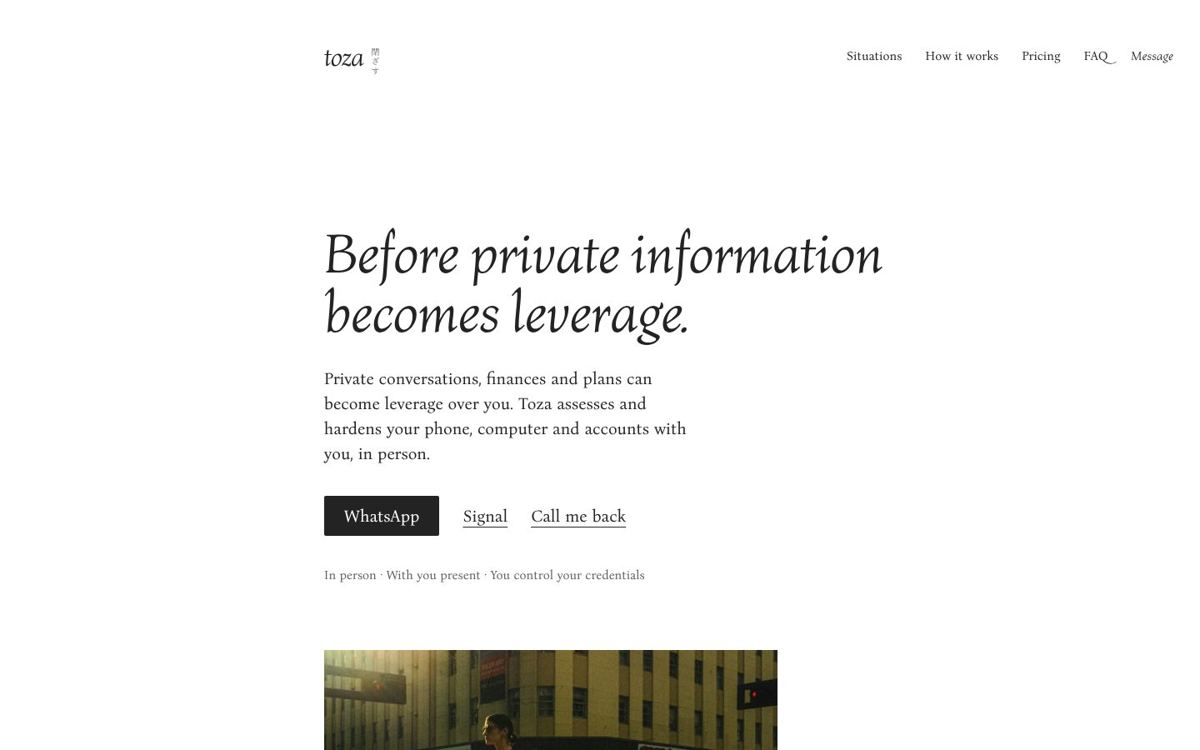
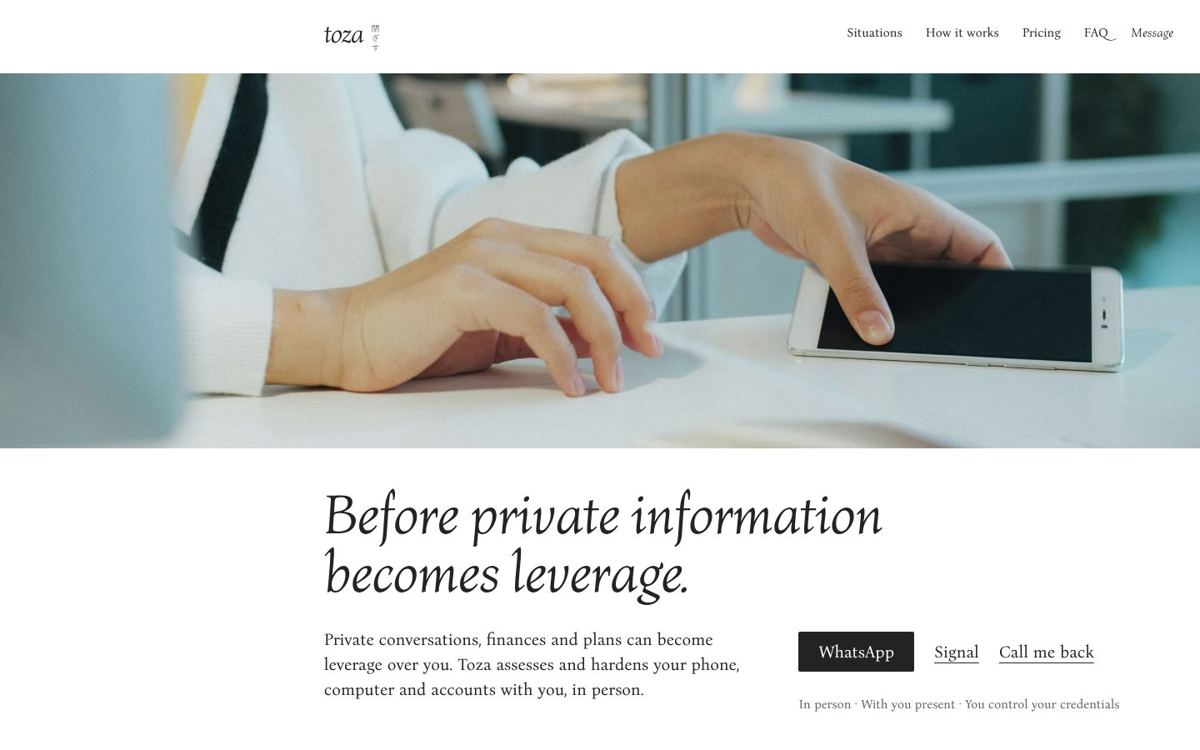
Board 2 v2: full-bleed hero (H2), situations as a horizontal gallery strip; owner photo directions stored with credits
Claude-Session: https://claude.ai/code/session_01GXSN2Gm78K28T2xn8h7HYg

diff --git a/site/b2-quiet/index.html b/site/b2-quiet/index.html
@@ -8,36 +8,31 @@
 <link rel="preload" href="../fonts/bona-nova-latin-400-normal.woff2" as="font" type="font/woff2" crossorigin>
 <link rel="preload" href="../fonts/bona-nova-latin-400-italic.woff2" as="font" type="font/woff2" crossorigin>
 <style>
-/* Board 2 — The quiet instrument. taste-skill direction quiet-instrument (finance, seed 1650518005).
-   Type: Bona Nova (Latin + Hebrew, replaces dealt EB Garamond: Hebrew required, D25). Palette: Greys and mint (dealt). */
+/* Board 2, version 2 — The quiet instrument, with the system broken once on purpose: a full-bleed hero photograph
+   and a full-bleed gallery strip (owner decisions D33, H2, 18 Oct). Wordmark approved (D31). */
 @font-face{font-family:"Bona Nova";src:url(../fonts/bona-nova-latin-400-normal.woff2) format("woff2");font-weight:400;font-style:normal;font-display:swap;unicode-range:U+0000-00FF,U+0131,U+0152-0153,U+02BB-02BC,U+02C6,U+02DA,U+02DC,U+2000-206F,U+20AC,U+2122,U+2212,U+2215}
 @font-face{font-family:"Bona Nova";src:url(../fonts/bona-nova-hebrew-400-normal.woff2) format("woff2");font-weight:400;font-style:normal;font-display:swap;unicode-range:U+0590-05FF,U+200C-2010,U+20AA,U+25CC,U+FB1D-FB4F}
 @font-face{font-family:"Bona Nova";src:url(../fonts/bona-nova-latin-400-italic.woff2) format("woff2");font-weight:400;font-style:italic;font-display:swap;unicode-range:U+0000-00FF,U+2000-206F}
-@font-face{font-family:"Bona Nova";src:url(../fonts/bona-nova-latin-700-normal.woff2) format("woff2");font-weight:700;font-style:normal;font-display:swap;unicode-range:U+0000-00FF,U+2000-206F}
 @font-face{font-family:"Toza Kanji";src:url(../fonts/kanji-serif.woff2) format("woff2");font-display:block}
 
 :root{
-  --bg:#ffffff; --surface:#f3f3f3; --ink:#232323; --muted:#5f5f5f; --accent:#a1ffcb; --accent-ink:#232323;
-  --line: 27vw;                       /* the one alignment the whole page hangs on */
-  --col: 34rem;                       /* 544px reading column */
-  --step-small: 0.9375rem;
-  --step-body: clamp(1.125rem,1.06rem + 0.3vw,1.25rem);
-  --step-lead: clamp(1.375rem,1.2rem + 0.7vw,1.75rem);
-  --step-head: clamp(2.5rem,1.4rem + 3.4vw,4.25rem);
-  --radius: 2px;
-  --ease: cubic-bezier(.2,.7,.2,1);
+  --bg:#ffffff; --surface:#f1f1f0; --ink:#232323; --muted:#5f5f5f; --accent:#a1ffcb; --accent-ink:#232323;
+  --line:27vw; --margin:clamp(1.25rem,2.2vw,2rem);
+  --step-small:.9375rem;
+  --step-body:clamp(1.125rem,1.06rem + .3vw,1.25rem);
+  --step-title:clamp(1.375rem,1.1rem + .9vw,1.875rem);
+  --step-head:clamp(2.5rem,1.4rem + 3.4vw,4.25rem);
+  --radius:2px; --ease:cubic-bezier(.2,.7,.2,1);
 }
 *,*::before,*::after{box-sizing:border-box}
-html{-webkit-text-size-adjust:100%}
-body{margin:0;background:var(--bg);color:var(--ink);font:400 var(--step-body)/1.5 "Bona Nova",Georgia,serif;font-kerning:normal;text-rendering:optimizeLegibility}
+body{margin:0;background:var(--bg);color:var(--ink);font:400 var(--step-body)/1.5 "Bona Nova",Georgia,serif;font-kerning:normal}
 a{color:inherit}
 img{display:block;max-inline-size:100%;block-size:auto}
 :focus-visible{outline:2px solid var(--ink);outline-offset:3px}
-.skip{position:absolute;inset-inline-start:-999px}
-.skip:focus{inset-inline-start:var(--line);inset-block-start:.5rem;background:var(--bg);padding:.5rem}
+.skip{position:absolute;inset-inline-start:-999px}.skip:focus{inset-inline-start:var(--line);inset-block-start:.5rem;background:var(--bg);padding:.5rem}
 
-/* top bar: wordmark on the line, links at the far end */
-.top{position:absolute;inset-inline:0;inset-block-start:0;display:flex;align-items:flex-start;padding-block-start:3.5rem;padding-inline-start:var(--line);padding-inline-end:2rem}
+/* header on white, wordmark on the line */
+.top{display:flex;align-items:flex-start;padding-block:1.75rem 1.5rem;padding-inline:var(--line) var(--margin)}
 .wordmark{display:flex;align-items:flex-start;gap:.55rem;text-decoration:none}
 .wordmark .latin{font-style:italic;font-size:2rem;line-height:.8;letter-spacing:-.045em}
 .wordmark .kanji{font-family:"Toza Kanji",serif;writing-mode:vertical-rl;font-size:.62rem;letter-spacing:.2em;line-height:1;color:var(--muted)}
@@ -46,61 +41,68 @@ img{display:block;max-inline-size:100%;block-size:auto}
 .links a:hover{text-decoration:underline;text-underline-offset:.3em;text-decoration-thickness:1px}
 .links .msg{font-style:italic}
 
-/* hero */
-.hero{min-block-size:100svh;position:relative;overflow:hidden}
-.hero .col{position:absolute;inset-block-start:30svh;inset-inline-start:var(--line);inline-size:min(var(--col),calc(100vw - var(--line) - 2rem))}
-h1{margin:0 0 1.75rem;font-weight:400;font-style:italic;font-size:var(--step-head);line-height:1.04;letter-spacing:-.022em;inline-size:max-content;max-inline-size:calc(100vw - var(--line) - 2rem);text-wrap:balance}
-.lead{margin:0 0 2.25rem;max-inline-size:44ch}
-.actions{display:flex;align-items:center;gap:1.75rem;flex-wrap:wrap}
-.btn{display:inline-flex;align-items:center;min-block-size:3rem;padding-inline:1.5rem;background:var(--ink);color:var(--bg);text-decoration:none;border-radius:var(--radius);font-size:var(--step-body);transition:transform .15s var(--ease),background-color .2s}
-.btn:hover{background:#000}
-.btn:active{transform:translateY(1px) scale(.985)}
-.textlink{font-size:var(--step-body);text-underline-offset:.28em;text-decoration-thickness:1px;padding-block:.7rem;margin-block:-.7rem}
+/* hero: one photograph edge to edge, the words on white beneath it */
+.hero-photo{inline-size:100%;block-size:clamp(18rem,50svh,34rem);object-fit:cover;object-position:60% 55%;background:var(--surface)}
+.hero-text{display:grid;grid-template-columns:var(--line) minmax(0,32rem) minmax(0,1fr);column-gap:0;row-gap:1.75rem;padding-block:clamp(2rem,5svh,3.25rem) 5rem;padding-inline-end:var(--margin)}
+h1{grid-column:2 / 4;margin:0;font-weight:400;font-style:italic;font-size:var(--step-head);line-height:1.04;letter-spacing:-.022em;text-wrap:balance}
+.side{display:contents}
+.lead{grid-column:2;grid-row:2}
+.side .more{grid-column:3;grid-row:2;padding-block-start:.35rem;padding-inline-start:clamp(1.5rem,4vw,4rem)}
+.lead{margin:0}
+.actions{display:flex;align-items:center;gap:1.5rem;flex-wrap:wrap}
+.btn{display:inline-flex;align-items:center;min-block-size:3rem;padding-inline:1.5rem;background:var(--ink);color:var(--bg);text-decoration:none;border-radius:var(--radius);transition:transform .15s var(--ease),background-color .2s}
+.btn:hover{background:#000}.btn:active{transform:translateY(1px) scale(.985)}
+.textlink{text-underline-offset:.28em;text-decoration-thickness:1px;padding-block:.7rem;margin-block:-.7rem}
 .textlink:hover{text-decoration-thickness:2px}
-.promise{margin:2.25rem 0 0;font-size:var(--step-small);color:var(--muted)}
-/* the demonstration that peeks in at the fold: a column-wide photograph of an ordinary afternoon */
-.peek{position:absolute;inset-inline-start:var(--line);inset-block-start:calc(100svh - 7.5rem);inline-size:min(var(--col),calc(100vw - var(--line) - 2rem));aspect-ratio:3/2;object-fit:cover;background:var(--surface)}
+.promise{margin:1.75rem 0 0;font-size:var(--step-small);color:var(--muted)}
 
-/* situations: two-ended rows in the same column */
-.doors{padding-block:9rem 10rem;padding-inline-start:var(--line);padding-inline-end:1.5rem}
-.doors > *{max-inline-size:var(--col)}
-.doors .photo{inline-size:100%;aspect-ratio:3/2;object-fit:cover;margin-block-end:7rem;background:var(--surface)}
-h2{margin:0 0 2rem;font-weight:400;font-size:var(--step-lead);line-height:1.2;letter-spacing:-.01em}
-.rows{list-style:none;margin:0;padding:0}
-.rows li + li{margin-block-start:1.6rem}
-.rows a{display:grid;grid-template-columns:1rem 1fr;column-gap:.75rem;align-items:baseline;text-decoration:none;padding-block:.35rem}
-.rows img{inline-size:1rem;block-size:1rem;border-radius:50%;object-fit:cover;align-self:start;margin-block-start:.32rem}
-.rows .t{font-size:var(--step-body)}
-.rows .l{grid-column:2;font-size:var(--step-body);color:var(--muted);font-style:italic}
-.rows a:hover .t{text-decoration:underline;text-underline-offset:.28em;text-decoration-thickness:1px}
-/* the one mint field */
-.aside{margin:4.5rem 0 0;background:var(--accent);color:var(--accent-ink);padding:2.25rem 2rem 2.5rem;font-size:var(--step-lead);line-height:1.3;max-inline-size:var(--col)}
+/* situations: a horizontal strip of tall photographs, edge to edge, starting on the line */
+.doors{padding-block:5rem 7rem}
+h2{margin:0 0 2rem;padding-inline-start:var(--line);font-weight:400;font-style:italic;font-size:var(--step-head);line-height:1.04;letter-spacing:-.022em}
+.strip{list-style:none;margin:0;padding:0 var(--margin) 1rem var(--line);display:flex;gap:6px;overflow-x:auto;scroll-snap-type:x mandatory;scroll-padding-inline-start:var(--line);scrollbar-width:none}
+.strip::-webkit-scrollbar{display:none}
+.strip li{flex:0 0 clamp(17rem,25vw,27rem);scroll-snap-align:start}
+.strip a{display:block;text-decoration:none}
+.strip .ph{aspect-ratio:3/4;overflow:hidden;background:var(--surface)}
+.strip .ph img{inline-size:100%;block-size:100%;object-fit:cover;transition:transform .6s var(--ease)}
+.strip a:hover .ph img{transform:scale(1.02)}
+.strip .t{display:block;margin-block-start:1rem;font-size:var(--step-title);line-height:1.15;letter-spacing:-.01em;padding-inline-end:1rem}
+.strip .l{display:block;margin-block-start:.4rem;font-style:italic;color:var(--muted);padding-inline-end:1.25rem}
+.strip a:hover .t{text-decoration:underline;text-underline-offset:.25em;text-decoration-thickness:1px}
+.slot{inline-size:100%;block-size:100%;display:flex;align-items:center;justify-content:center;padding:1rem;font-size:.9375rem;font-style:italic;color:#555;background:#ebebea}
+.aside{margin:4rem 0 0 var(--line);inline-size:min(34rem,calc(100vw - var(--line) - var(--margin)));background:var(--accent);color:var(--accent-ink);padding:2.25rem 2rem 2.5rem;font-size:var(--step-title);line-height:1.3}
 
-/* wordmark proposal sheet (production note, exempt from the copy check) */
-.sheet{background:var(--surface);padding:6rem 2rem 7rem var(--line)}
+/* wordmark sheet (approved, D31) and credits: production notes, exempt from the copy check */
+.sheet{background:var(--surface);padding:6rem var(--margin) 6rem var(--line)}
 .sheet .row{display:flex;flex-wrap:wrap;gap:4rem;align-items:flex-end}
 .sheet .big .latin{font-size:5.5rem}.sheet .big .kanji{font-size:1.4rem}
-.sheet .rev{background:var(--ink);color:var(--bg);padding:1.5rem 1.75rem}
-.sheet .rev .kanji{color:#bdbdbd}
+.sheet .rev{background:var(--ink);color:var(--bg);padding:1.5rem 1.75rem}.sheet .rev .kanji{color:#bdbdbd}
 .sheet .tiny .latin{font-size:1.125rem}.sheet .tiny .kanji{display:none}
-.sheet p{margin:3rem 0 0;font-size:var(--step-small);color:var(--muted);max-inline-size:52ch}
-.sheet .meaning{font-family:"Toza Kanji","Bona Nova",serif;font-size:var(--step-body);color:var(--ink);margin-block-start:2.5rem}
-.credits{padding:1.5rem 2rem 2rem var(--line);font-size:.8125rem;color:var(--muted)}
+.sheet p{margin:2.5rem 0 0;font-size:var(--step-small);color:var(--muted)}
+.sheet .meaning{font-family:"Toza Kanji","Bona Nova",serif;color:var(--ink);font-size:var(--step-body)}
+.credits{padding:1.25rem var(--margin) 1.75rem var(--line);font-size:.8125rem;color:var(--muted)}
 
+@media (max-width:900px){
+  .hero-text{grid-template-columns:var(--line) minmax(0,1fr) var(--line)}
+  .lead,.side .more{grid-column:2;grid-row:auto}
+  .side .more{padding-inline-start:0}
+}
 @media (max-width:760px){
   :root{--line:1.5rem}
-  .top{padding-block-start:2rem;padding-inline-end:1.5rem}
+  .top{padding-block:1.25rem 1rem}
   .links a:not(.msg){display:none}
-  .hero .col{inset-block-start:26svh;inline-size:calc(100vw - 3rem)}
-  h1{inline-size:auto;font-size:calc((100vw - 3rem) / 11.6)}
+  .hero-photo{block-size:34svh}
+  .hero-text{grid-template-columns:var(--line) minmax(0,1fr) var(--line);padding-block:1.5rem 3.5rem;padding-inline-end:0}
+  h1{font-size:calc((100vw - 3rem) / 11.6)}
   .lead{font-size:1.0625rem}
-  .actions{gap:1.25rem}
-  .peek{inline-size:calc(100vw - 3rem);inset-block-start:calc(100svh - 6.5rem)}
-  .doors{padding-block:6rem 7rem}
-  .doors .photo{margin-block-end:5rem}
+  .hero-text{row-gap:1.25rem}
+  .doors{padding-block:3.5rem 5rem}
+  h2{font-size:calc((100vw - 3rem) / 11.6);padding-inline-end:1.5rem}
+  .strip li{flex-basis:78vw}
+  .aside{inline-size:calc(100vw - 3rem)}
   .sheet .big .latin{font-size:3.5rem}
 }
-@media (prefers-reduced-motion:reduce){*{transition:none!important}}
+@media (prefers-reduced-motion:reduce){*{transition:none!important}.strip{scroll-behavior:auto}}
 </style>
 </head>
 <body>
@@ -113,42 +115,45 @@ h2{margin:0 0 2rem;font-weight:400;font-size:var(--step-lead);line-height:1.2;le
   </nav>
 </header>
 <main id="main">
-  <section class="hero">
-    <div class="col">
-      <h1>Before private information<br> becomes leverage.</h1>
+  <picture>
+    <source media="(max-width:760px)" srcset="../img/h-hero-phone.jpg" width="900" height="782">
+    <img class="hero-photo" src="../img/h-hero-wide.jpg" width="2400" height="922" alt="">
+  </picture>
+  <section class="hero-text">
+    <h1>Before private information becomes leverage.</h1>
+    <div class="side">
       <p class="lead">Private conversations, finances and plans can become leverage over you. Toza assesses and hardens your phone, computer and accounts with you, in person.</p>
+      <div class="more">
       <div class="actions">
         <a class="btn" href="https://wa.me/972533366276?text=I'd%20like%20a%20private%20conversation.%20Please%20let%20me%20know%20the%20next%20step." target="_blank" rel="noopener">WhatsApp</a>
         <a class="textlink" href="https://signal.me/#p/+972533366276" target="_blank" rel="noopener">Signal</a>
         <a class="textlink" href="https://wa.me/972533366276?text=Hello%2C%20I'd%20like%20a%20private%20conversation.%20Please%20call%20me%20back%20when%20convenient." target="_blank" rel="noopener">Call me back</a>
       </div>
       <p class="promise">In person · With you present · You control your credentials</p>
+      </div>
     </div>
-    <img class="peek" src="../img/b2-peek.jpg" width="1200" height="800" alt="" data-photo="P2">
   </section>
 
   <section class="doors" id="situations" aria-labelledby="h-sit">
-    <img class="photo" src="../img/b2-doors.jpg" width="1200" height="800" alt="" loading="lazy" data-photo="P1">
     <h2 id="h-sit">Where this usually begins.</h2>
-    <ul class="rows">
-      <li><a href="#"><img src="../img/b2-d1.jpg" alt="" width="64" height="64" loading="lazy"><span class="t">Separation or divorce</span><span class="l">What still connects your digital lives.</span></a></li>
-      <li><a href="#"><img src="../img/b2-d2.jpg" alt="" width="64" height="64" loading="lazy"><span class="t">Business or founder dispute</span><span class="l">Where personal and business access still meet.</span></a></li>
-      <li><a href="#"><img src="../img/b2-d3.jpg" alt="" width="64" height="64" loading="lazy"><span class="t">Inheritance conflict</span><span class="l">Family arrangements that outlived the trust.</span></a></li>
-      <li><a href="#"><img src="../img/b2-d4.jpg" alt="" width="64" height="64" loading="lazy"><span class="t">Someone knows something</span><span class="l">Private information has surfaced. Start with what can be checked.</span></a></li>
+    <ul class="strip">
+      <li><a href="#"><div class="ph"><div class="slot" data-copy-exempt>Photo to come · separation</div></div><span class="t">Separation or divorce</span><span class="l">What still connects your digital lives.</span></a></li>
+      <li><a href="#"><div class="ph"><div class="slot" data-copy-exempt>Photo to come · business dispute</div></div><span class="t">Business or founder dispute</span><span class="l">Where personal and business access still meet.</span></a></li>
+      <li><a href="#"><div class="ph"><div class="slot" data-copy-exempt>Photo to come · inheritance</div></div><span class="t">Inheritance conflict</span><span class="l">Family arrangements that outlived the trust.</span></a></li>
+      <li><a href="#"><div class="ph"><img src="../img/s4-someone.jpg" width="900" height="1200" alt="" loading="lazy"></div><span class="t">Someone knows something</span><span class="l">Private information has surfaced. Start with what can be checked.</span></a></li>
     </ul>
     <p class="aside">Or before anything happens. You don't need a known incident to begin.</p>
   </section>
 </main>
 
-<aside class="sheet" data-copy-exempt aria-label="Wordmark proposal">
+<aside class="sheet" data-copy-exempt aria-label="Wordmark (approved)">
   <div class="row">
     <span class="wordmark big"><span class="latin">toza</span><span class="kanji">閉ざす</span></span>
     <span class="wordmark big rev"><span class="latin">toza</span><span class="kanji">閉ざす</span></span>
     <span class="wordmark tiny"><span class="latin">toza</span></span>
   </div>
   <p class="meaning">閉ざす · tozasu · to close shut</p>
-  <p>Wordmark proposal for board 2. Lowercase italic Bona Nova, tracked until the letters nearly close; the Japanese verb stands beside it like a colophon. Small sizes drop the kanji.</p>
 </aside>
-<p class="credits" data-copy-exempt>Photographs: see credits on the comparison page. Placeholder stock (Unsplash License) for review only.</p>
+<p class="credits" data-copy-exempt>Photographs: V. Gariev, A. Curcan / Unsplash</p>
 </body>
 </html>

diff --git a/site/index.html b/site/index.html
@@ -37,21 +37,21 @@ section.notes li{margin-block:.3rem}
 <main class="boards">
   <article class="board">
     <a class="shot" href="b2-quiet/"><img src="shots/b2-desktop.jpg" alt="Board 2, first screen" loading="lazy"></a>
-    <h2>2 · The quiet instrument</h2>
+    <h2>2 · The quiet instrument <small style="font-weight:400;font-size:.9rem;color:#2f6b4f">chosen, version 2</small></h2>
     <a class="open" href="b2-quiet/">Open board 2</a>
-    <dl><dt>Feeling</dt><dd>A private letter: almost nothing on the page, all of it exact</dd><dt>Type</dt><dd>Bona Nova (Latin and Hebrew)</dd><dt>Colour</dt><dd>White, near-black, one mint field</dd><dt>Wordmark</dt><dd>Italic <i>toza</i> with 閉ざす as a colophon</dd></dl>
+    <dl><dt>Feeling</dt><dd>A private letter: almost nothing on the page, all of it exact</dd><dt>Type</dt><dd>Bona Nova (Latin and Hebrew)</dd><dt>Colour</dt><dd>White, near-black, one mint field</dd><dt>Wordmark</dt><dd>Italic <i>toza</i> with 閉ざす as a colophon (approved)</dd></dl>
     <p class="idea"><b>Idea.</b> <i>Tozasu</i>, to close shut, becomes the page's restraint: a page that shows almost nothing, the way a closed door shows nothing.</p>
   </article>
   <article class="board">
     <a class="shot" href="b3-split/"><img src="shots/b3-desktop.jpg" alt="Board 3, first screen" loading="lazy"></a>
-    <h2>3 · The split stage</h2>
+    <h2>3 · The split stage <small style="font-weight:400;font-size:.9rem;color:#777">not chosen</small></h2>
     <a class="open" href="b3-split/">Open board 3</a>
     <dl><dt>Feeling</dt><dd>A calm afternoon kept in view while you read</dd><dt>Type</dt><dd>Noto Serif Hebrew (Latin and Hebrew)</dd><dt>Colour</dt><dd>Olive on bone; the close inverts to olive</dd><dt>Wordmark</dt><dd>A woven garment label</dd></dl>
     <p class="idea"><b>Idea.</b> An ordinary moment, a woman at a table with her phone, stays fixed beside the text. The reader recognises her own life before reading about the risk.</p>
   </article>
   <article class="board">
     <a class="shot" href="b4-map/"><img src="shots/b4-desktop.jpg" alt="Board 4, first screen" loading="lazy"></a>
-    <h2>4 · Access map</h2>
+    <h2>4 · Access map <small style="font-weight:400;font-size:.9rem;color:#777">not chosen</small></h2>
     <a class="open" href="b4-map/">Open board 4</a>
     <dl><dt>Feeling</dt><dd>Precise, calm, something you can touch</dd><dt>Type</dt><dd>IBM Plex Sans Hebrew (Latin and Hebrew)</dd><dt>Colour</dt><dd>Putty, black, one teal</dd><dt>Wordmark</dt><dd>門, a gate, with its two doors shut</dd></dl>
     <p class="idea"><b>Idea.</b> Her own words from the opening line (phone, computer, accounts, conversations, finances, plans) appear still connected out of the frame. She taps each one to close it.</p>
@@ -67,11 +67,10 @@ section.notes li{margin-block:.3rem}
   </ul>
   <h3>Photographs (placeholders for review, Unsplash License)</h3>
   <ul>
-    <li>Board 2: woman crossing a sunlit street, by Frankie Cordoba (unsplash.com/photos/meo7TDFX9lI); woman at her kitchen table, by Centre for Ageing Better (unsplash.com/photos/DEhuMIS7x2M); small crops from the photographs below.</li>
+    <li>Board 2 (version 2): hand placing a phone on a desk, by Vitaly Gariev (unsplash.com/photos/1ArQy9xVoSQ); stairwell, by Ana Curcan (unsplash.com/photos/Zi-Z7OpDFO8). Three situation photos to come. Full list: assets/photos/CREDITS.md.</li>
     <li>Board 3: woman at a café table, by Valentin (unsplash.com/photos/dVUSUGotack); hand holding a phone, by Shawn Rain (unsplash.com/photos/SOgkO6PJ8TY).</li>
     <li>Board 4: woman walking a city street, by István Szitás (unsplash.com/photos/koKXhEvnGig).</li>
-    <li>Also cropped on board 2: hands, phone and coffee, by Maliha Mannan (unsplash.com/photos/8gn_WhKv8Ns).</li>
-  </ul>
+      </ul>
 </section>
 </body>
 </html>

diff --git a/assets/photos/CREDITS.md b/assets/photos/CREDITS.md
@@ -1,0 +1,15 @@
+# Photo credits
+
+Owner-selected photo directions, 18 Oct 2026. All are under the Unsplash License: free to use, no permission needed, attribution appreciated rather than required. Originals are stored here at 3000px wide. Crops and recolours for the site live in `site/img/`.
+
+| File | Photographer | Source |
+|---|---|---|
+| gariev-phone-on-desk.jpg | Vitaly Gariev (@silverkblack) | https://unsplash.com/photos/1ArQy9xVoSQ |
+| dincer-two-women.jpg | Şahin Sezer Dinçer (@sahinsezerdincer) | https://unsplash.com/photos/m1_Uhy41FzE |
+| reding-bench-ladefense.jpg | Mathias Reding (@matreding) | https://unsplash.com/photos/0vChIgOoLgg |
+| roma-chair-berlin.jpg | roma (@tuhtoroma) | https://unsplash.com/photos/rERtQOyUKOE |
+| gottardi-cafe-telaviv.jpg | Cristina Gottardi (@cristina_gottardi) | https://unsplash.com/photos/QW3LLYiR5Dg |
+| biernat-workspace.jpg | Michal Biernat (@gibonskc) | https://unsplash.com/photos/h0xEUQXzU38 |
+| curcan-staircase.jpg | Ana Curcan (@annaacurcan) | https://unsplash.com/photos/Zi-Z7OpDFO8 |
+
+On the site, credit appears as one small line at the foot of the page, e.g. "Photographs: V. Gariev, A. Curcan / Unsplash".
